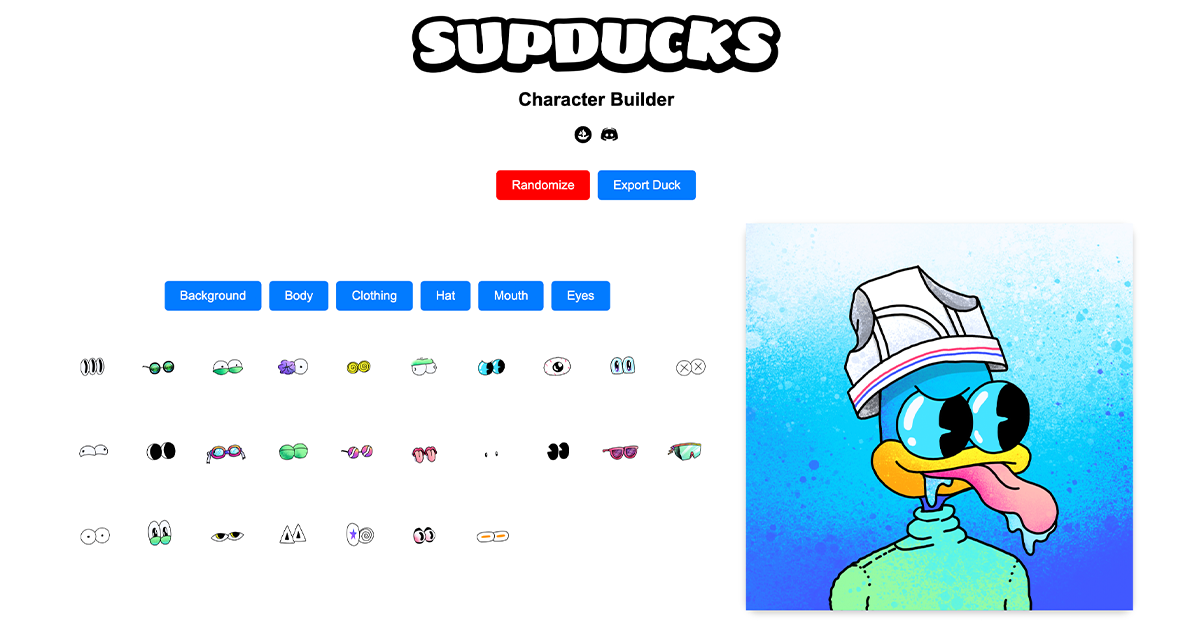
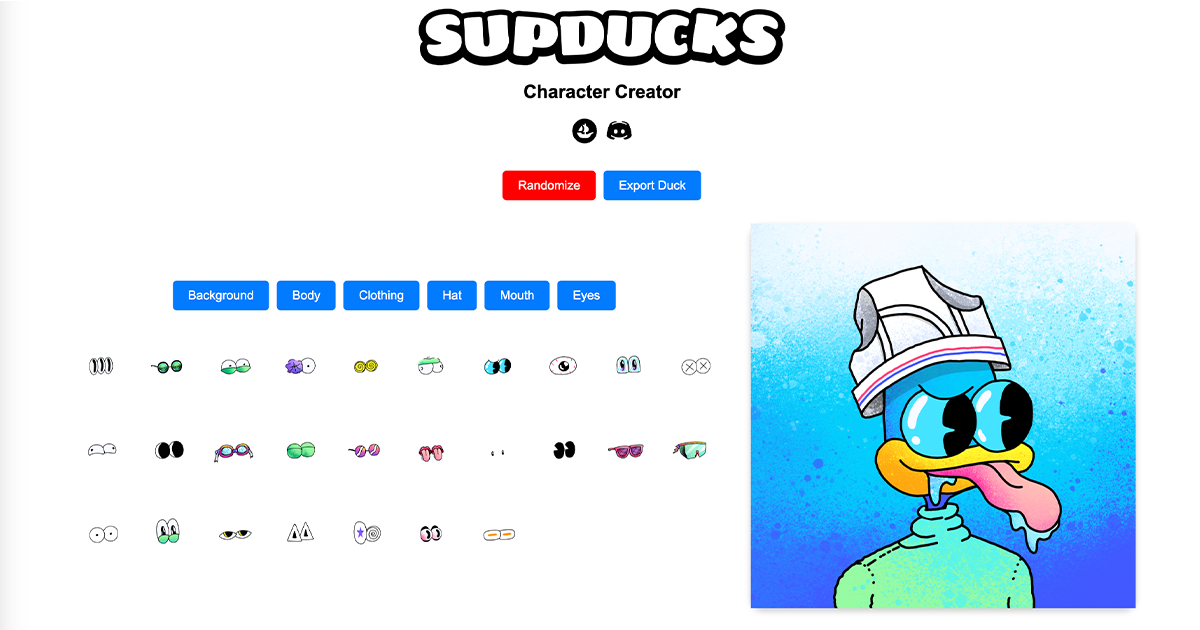
updated social media meta tags & sharing thumbnail

diff --git a/index.html b/index.html
@@ -16,13 +16,16 @@
     <meta property="og:description" content="Create and customize your own unique SupDuck with this interactive character creator!" />
     <meta property="og:image" content="https://unibr0s.github.io/SupDucks-Character-Creator/Assets/Design_Elements/SupDucksCharacterBuilderThumbnail.png" />
     <meta property="og:url" content="https://unibr0s.github.io/SupDucks-Character-Creator/" />
-    <meta property="og:site_name" content="SupDucks Character Builder" />
+    <meta property="og:site_name" content="SupDucks Character Creator" />
 
     <!-- Twitter -->
-    <meta name="twitter:card" content="summary_large_image" />
-    <meta name="twitter:title" content="Character Builder - Design Your Own SupDuck" />
-    <meta name="twitter:description" content="Create and customize your own unique SupDuck with this interactive character creator!" />
-    <meta name="twitter:image" content="https://unibr0s.github.io/SupDucks-Character-Creator/Assets/Design_Elements/SupDucksCharacterBuilderThumbnail.png" />
+    <meta name="twitter:card" content="summary_large_image">
+    <meta name="twitter:site" content="@unibr0s">
+    <meta name="twitter:creator" content="@unibr0s">
+    <meta name="twitter:title" content="Character Creator - Design Your Own SupDuck">
+    <meta name="twitter:description" content="Create and customize your own unique SupDuck with this interactive character creator!">
+    <meta name="twitter:image" content="https://unibr0s.github.io/SupDucks-Character-Creator/Assets/Design_Elements/SupDucksCharacterBuilderThumbnail.png">
+    <meta name="twitter:image:alt" content="SupDucks Character Creator Preview">
 
     <!-- Multiple sizes for different devices -->
     <link rel="icon" type="image/png" sizes="32x32" href="Assets/Icons/favicon-32x32.png">
